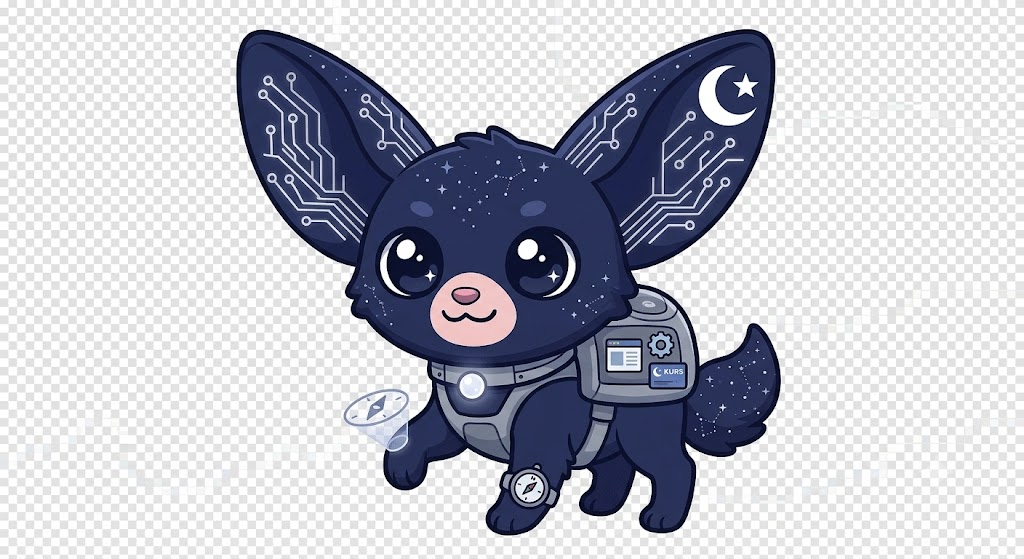
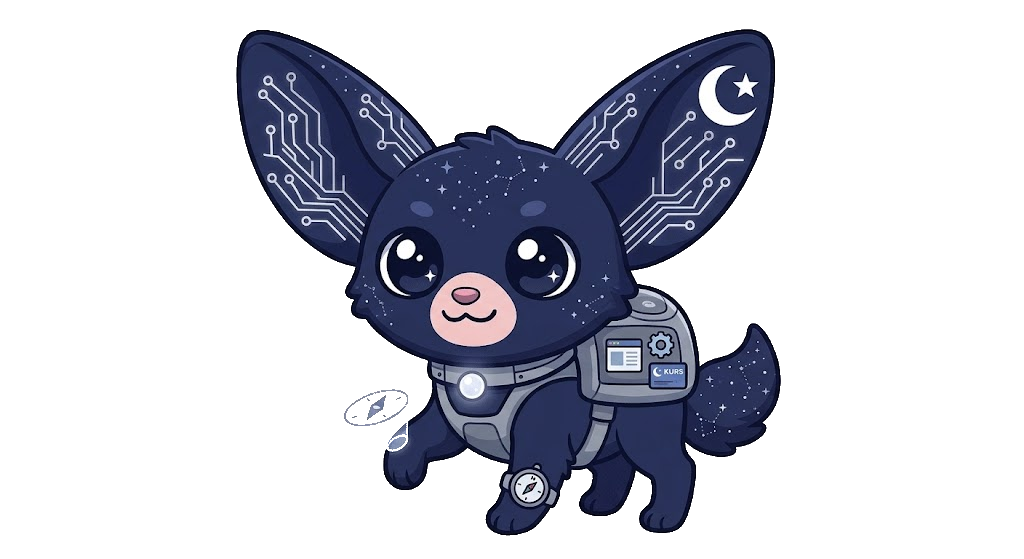
Mejoras de KOSMO: memoria del chat, 404 con mascota y pulido
- El chat recuerda la conversación durante la visita (sessionStorage):
  al navegar entre páginas o recargar, KOSMO retoma donde quedó en vez
  de saludar de cero
- El indicador "escribiendo..." dura proporcional al largo de la
  respuesta (más natural)
- Página 404 rediseñada con KOSMO flotando en el espacio y botón de
  volver al inicio
- kosmo-completo.png ahora tiene transparencia real: se eliminó el
  damero pintado en los píxeles (flood fill desde los bordes, conserva
  la luna y los blancos internos); pesa 350 KB menos. Referencias con
  ?v=2 para saltar la caché de visitantes previos
- Avatar del chat con encuadre más abierto (se ven las orejas)
- prefers-reduced-motion: se apagan brillo de la promo y pulsos
- Sube la versión de caché de assets a v24

Changed region(s): [[0.0, 0.0, 1.0, 1.0]]

diff --git a/public/js/kurs.js b/public/js/kurs.js
@@ -201,7 +201,7 @@
       img.className = 'kbot-kosmo-img';
       img.alt = 'KOSMO';
       img.addEventListener('load', function () { cont.classList.add('kbot-con-img'); });
-      img.src = '/images/kosmo-completo.png';
+      img.src = '/images/kosmo-completo.png?v=2';
       cont.insertBefore(img, cont.firstChild);
     }
 
@@ -252,13 +252,30 @@
     }
     function scrollAbajo() { msgs.scrollTop = msgs.scrollHeight; }
 
-    function burbuja(quien, html) {
+    // Memoria de la conversación durante la visita (sessionStorage): al navegar
+    // entre páginas el chat no arranca de cero. El HTML guardado es solo el que
+    // genera este script (el texto del usuario ya entra escapado con esc()).
+    const HIST_KEY = 'kurs_kosmo_hist';
+    let historial = [];
+    try { historial = JSON.parse(sessionStorage.getItem(HIST_KEY) || '[]') || []; } catch { historial = []; }
+    function guardarHist(quien, html) {
+      historial.push({ q: quien, h: html });
+      if (historial.length > 40) historial = historial.slice(-40);
+      try { sessionStorage.setItem(HIST_KEY, JSON.stringify(historial)); } catch { /* sin storage */ }
+    }
+
+    function pintar(quien, html) {
       const b = document.createElement('div');
       b.className = 'kbot-msg kbot-' + quien;
       b.innerHTML = html;
       msgs.appendChild(b);
       scrollAbajo();
       return b;
+    }
+    // efimero=true → no se guarda (indicador de "escribiendo...")
+    function burbuja(quien, html, efimero) {
+      if (!efimero) guardarHist(quien, html);
+      return pintar(quien, html);
     }
 
     const CHIPS_BASE = [
@@ -284,15 +301,16 @@
       });
     }
 
-    // Respuesta del bot con un breve retardo (efecto "escribiendo...")
+    // Respuesta del bot con retardo proporcional al largo (efecto "escribiendo...")
     function responder(html, chips) {
       chipsBox.innerHTML = '';
-      const t = burbuja('bot', '<span class="kbot-typing"><i></i><i></i><i></i></span>');
+      const t = burbuja('bot', '<span class="kbot-typing"><i></i><i></i><i></i></span>', true);
+      const espera = Math.min(1500, 400 + html.length * 3);
       setTimeout(function () {
         t.remove();
         burbuja('bot', html);
         pintarChips(chips);
-      }, 550);
+      }, espera);
     }
 
     function intencion(texto) {
@@ -393,6 +411,12 @@
     function iniciar() {
       if (iniciado) return;
       iniciado = true;
+      // Si hay conversación previa en esta visita, se restaura en vez de saludar
+      if (historial.length) {
+        historial.forEach(function (m) { pintar(m.q, m.h); });
+        pintarChips();
+        return;
+      }
       const h = new Date().getHours();
       const hola = h < 12 ? 'Buenos días' : (h < 19 ? 'Buenas tardes' : 'Buenas noches');
       responder('¡' + hola + '! 👋 Soy <strong>KOSMO</strong> 🐾, tu amigo virtual de KURS. ' +

diff --git a/public/404.html b/public/404.html
@@ -3,16 +3,33 @@
 <head>
   <meta charset="utf-8" />
   <meta name="viewport" content="width=device-width, initial-scale=1.0" />
-  <title>KURS — Rumbo al futuro</title>
+  <title>KURS — Página no encontrada</title>
+  <meta name="robots" content="noindex" />
+  <meta name="theme-color" content="#0a0a0a" />
   <link rel="preconnect" href="https://fonts.googleapis.com" />
   <link rel="preconnect" href="https://fonts.gstatic.com" crossorigin />
   <link href="https://fonts.googleapis.com/css2?family=Orbitron:wght@400;600;700;800;900&family=Exo+2:wght@300;400;500;600&display=swap" rel="stylesheet" />
-  <link rel="stylesheet" href="/css/app.css?v=23" />
+  <link rel="stylesheet" href="https://cdn.jsdelivr.net/npm/@tabler/icons-webfont@3.22.0/dist/tabler-icons.min.css" />
+  <link rel="stylesheet" href="/css/app.css?v=24" />
   <link rel="icon" type="image/svg+xml" href="/images/LogoSinFondo.svg" />
 </head>
 <body>
-  <p style="font-family:'Orbitron',sans-serif;color:#fff;text-align:center;padding:4rem;">
-    404 — Ruta no encontrada
-  </p>
+
+  <div class="stars-layer" aria-hidden="true"></div>
+  <div class="bg-orbs" aria-hidden="true">
+    <div class="orb orb-1"></div>
+    <div class="orb orb-2"></div>
+    <div class="orb orb-3"></div>
+  </div>
+
+  <main class="e404-wrap">
+    <img src="/images/kosmo-completo.png?v=2" alt="KOSMO, la mascota de KURS, flotando en el espacio" class="e404-img" />
+    <h1 class="e404-code gradient-text">404</h1>
+    <p class="e404-texto">¡Ups! KOSMO olfateó por todo el cosmos y no encontró esta página.
+    Volvamos a marcar el rumbo.</p>
+    <a href="/" class="btn-primary glass-bubble-btn"><i class="ti ti-home"></i> Volver al inicio</a>
+  </main>
+
+  <script src="/js/kurs.js?v=24"></script>
 </body>
 </html>

diff --git a/public/css/app.css b/public/css/app.css
@@ -1543,7 +1543,7 @@ html { scroll-behavior: smooth; }
 .kbot-con-img > .kbot-kosmo-img {
   display: block; position: absolute; inset: 0;
   width: 100%; height: 100%; object-fit: cover;
-  object-position: 45% 20%; transform: scale(1.9);
+  object-position: 45% 24%; transform: scale(1.65);
   background: #fff;
 }
 .kbot-con-img > .kbot-fallback { display: none; }
@@ -1684,6 +1684,25 @@ body.con-promo .navbar { top: calc(var(--promo-h, 46px) + 12px); }
   .promo-bar-link { font-size: 0.8rem; gap: 6px; }
   .promo-bar-extra { display: none; }
 }
+
+/* Accesibilidad: si el sistema pide menos movimiento, se apagan las
+   animaciones decorativas (brillo de la promo y pulsos de los botones) */
+@media (prefers-reduced-motion: reduce) {
+  .promo-bar::before, .kbot-lanzador, .wsp-flotante { animation: none; }
+}
+
+/* ═══════════ PÁGINA 404 (KOSMO perdido) ═══════════ */
+.e404-wrap {
+  position: relative; z-index: 1; min-height: 100vh;
+  display: flex; flex-direction: column; align-items: center; justify-content: center;
+  gap: 18px; padding: 100px 24px 60px; text-align: center;
+}
+.e404-img { width: min(340px, 78vw); height: auto; filter: drop-shadow(0 18px 40px rgba(0,0,0,0.5)); }
+.e404-code {
+  font-family: var(--font-display); font-weight: 900; font-size: clamp(44px, 9vw, 76px);
+  letter-spacing: 0.06em; line-height: 1;
+}
+.e404-texto { font-family: var(--font-body); color: var(--silver); font-size: 1rem; max-width: 420px; }
 
 /* ═══════════ POLÍTICA DE PRIVACIDAD ═══════════ */
 .legal-wrap {

diff --git a/public/admin.html b/public/admin.html
@@ -10,7 +10,7 @@
   <link rel="preconnect" href="https://fonts.gstatic.com" crossorigin />
   <link href="https://fonts.googleapis.com/css2?family=Orbitron:wght@400;600;700;800;900&family=Exo+2:wght@300;400;500;600&display=swap" rel="stylesheet" />
   <link rel="stylesheet" href="https://cdn.jsdelivr.net/npm/@tabler/icons-webfont@3.22.0/dist/tabler-icons.min.css" />
-  <link rel="stylesheet" href="/css/app.css?v=23" />
+  <link rel="stylesheet" href="/css/app.css?v=24" />
   <link rel="icon" type="image/svg+xml" href="/images/LogoSinFondo.svg" />
 </head>
 <body>
@@ -109,6 +109,6 @@
 
   </div>
 
-  <script src="/js/kurs.js?v=23"></script>
+  <script src="/js/kurs.js?v=24"></script>
 </body>
 </html>

diff --git a/public/contacto.html b/public/contacto.html
@@ -18,7 +18,7 @@
   <link rel="preconnect" href="https://fonts.gstatic.com" crossorigin />
   <link href="https://fonts.googleapis.com/css2?family=Orbitron:wght@400;600;700;800;900&family=Exo+2:wght@300;400;500;600&display=swap" rel="stylesheet" />
   <link rel="stylesheet" href="https://cdn.jsdelivr.net/npm/@tabler/icons-webfont@3.22.0/dist/tabler-icons.min.css" />
-  <link rel="stylesheet" href="/css/app.css?v=23" />
+  <link rel="stylesheet" href="/css/app.css?v=24" />
   <link rel="icon" type="image/svg+xml" href="/images/LogoSinFondo.svg" />
 </head>
 <body>
@@ -247,6 +247,6 @@
     <p class="footer-copy">© <span class="footer-year"></span> KURS. Todos los derechos reservados. · <a href="/privacidad" class="footer-legal-link">Política de Privacidad</a> · <span class="footer-version">v1</span></p>
   </footer>
 
-  <script src="/js/kurs.js?v=23"></script>
+  <script src="/js/kurs.js?v=24"></script>
 </body>
 </html>

diff --git a/public/cuenta.html b/public/cuenta.html
@@ -11,7 +11,7 @@
   <link rel="preconnect" href="https://fonts.gstatic.com" crossorigin />
   <link href="https://fonts.googleapis.com/css2?family=Orbitron:wght@400;600;700;800;900&family=Exo+2:wght@300;400;500;600&display=swap" rel="stylesheet" />
   <link rel="stylesheet" href="https://cdn.jsdelivr.net/npm/@tabler/icons-webfont@3.22.0/dist/tabler-icons.min.css" />
-  <link rel="stylesheet" href="/css/app.css?v=23" />
+  <link rel="stylesheet" href="/css/app.css?v=24" />
   <link rel="icon" type="image/svg+xml" href="/images/LogoSinFondo.svg" />
 </head>
 <body>
@@ -231,6 +231,6 @@
 
   </div>
 
-  <script src="/js/kurs.js?v=23"></script>
+  <script src="/js/kurs.js?v=24"></script>
 </body>
 </html>

diff --git a/public/index.html b/public/index.html
@@ -18,7 +18,7 @@
   <link rel="preconnect" href="https://fonts.gstatic.com" crossorigin />
   <link href="https://fonts.googleapis.com/css2?family=Orbitron:wght@400;600;700;800;900&family=Exo+2:wght@300;400;500;600&display=swap" rel="stylesheet" />
   <link rel="stylesheet" href="https://cdn.jsdelivr.net/npm/@tabler/icons-webfont@3.22.0/dist/tabler-icons.min.css" />
-  <link rel="stylesheet" href="/css/app.css?v=23" />
+  <link rel="stylesheet" href="/css/app.css?v=24" />
   <link rel="icon" type="image/svg+xml" href="/images/LogoSinFondo.svg" />
   <script type="application/ld+json">
   {
@@ -265,6 +265,6 @@
     <p class="footer-copy">© <span class="footer-year"></span> KURS. Todos los derechos reservados. · <a href="/privacidad" class="footer-legal-link">Política de Privacidad</a> · <span class="footer-version">v1</span></p>
   </footer>
 
-  <script src="/js/kurs.js?v=23"></script>
+  <script src="/js/kurs.js?v=24"></script>
 </body>
 </html>

diff --git a/public/login.html b/public/login.html
@@ -11,7 +11,7 @@
   <link rel="preconnect" href="https://fonts.gstatic.com" crossorigin />
   <link href="https://fonts.googleapis.com/css2?family=Orbitron:wght@400;600;700;800;900&family=Exo+2:wght@300;400;500;600&display=swap" rel="stylesheet" />
   <link rel="stylesheet" href="https://cdn.jsdelivr.net/npm/@tabler/icons-webfont@3.22.0/dist/tabler-icons.min.css" />
-  <link rel="stylesheet" href="/css/app.css?v=23" />
+  <link rel="stylesheet" href="/css/app.css?v=24" />
   <link rel="icon" type="image/svg+xml" href="/images/LogoSinFondo.svg" />
 </head>
 <body>
@@ -112,6 +112,6 @@
     <p class="footer-copy">© <span class="footer-year"></span> KURS. Todos los derechos reservados. · <a href="/privacidad" class="footer-legal-link">Política de Privacidad</a> · <span class="footer-version">v1</span></p>
   </footer>
 
-  <script src="/js/kurs.js?v=23"></script>
+  <script src="/js/kurs.js?v=24"></script>
 </body>
 </html>

diff --git a/public/privacidad.html b/public/privacidad.html
@@ -11,7 +11,7 @@
   <link rel="preconnect" href="https://fonts.gstatic.com" crossorigin />
   <link href="https://fonts.googleapis.com/css2?family=Orbitron:wght@400;600;700;800;900&family=Exo+2:wght@300;400;500;600&display=swap" rel="stylesheet" />
   <link rel="stylesheet" href="https://cdn.jsdelivr.net/npm/@tabler/icons-webfont@3.22.0/dist/tabler-icons.min.css" />
-  <link rel="stylesheet" href="/css/app.css?v=23" />
+  <link rel="stylesheet" href="/css/app.css?v=24" />
   <link rel="icon" type="image/svg+xml" href="/images/LogoSinFondo.svg" />
 </head>
 <body>
@@ -183,6 +183,6 @@
       <a href="/privacidad" class="footer-legal-link">Política de Privacidad</a> · <span class="footer-version">v1</span></p>
   </footer>
 
-  <script src="/js/kurs.js?v=23"></script>
+  <script src="/js/kurs.js?v=24"></script>
 </body>
 </html>